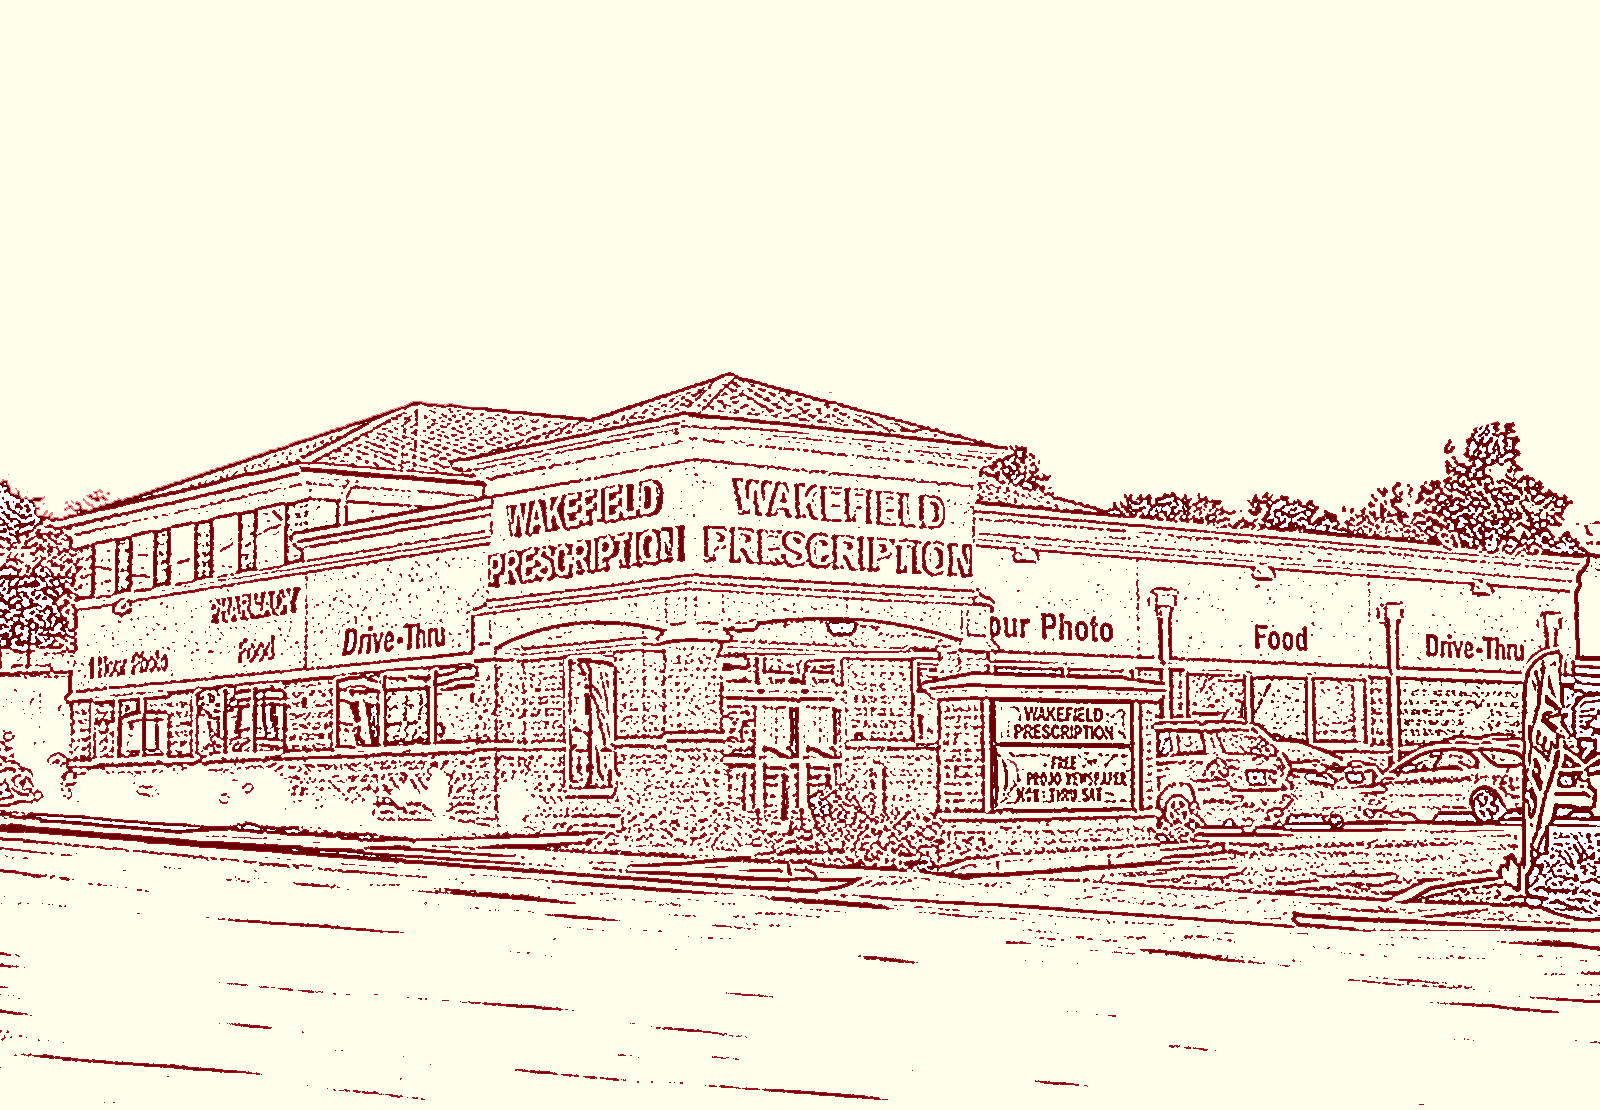
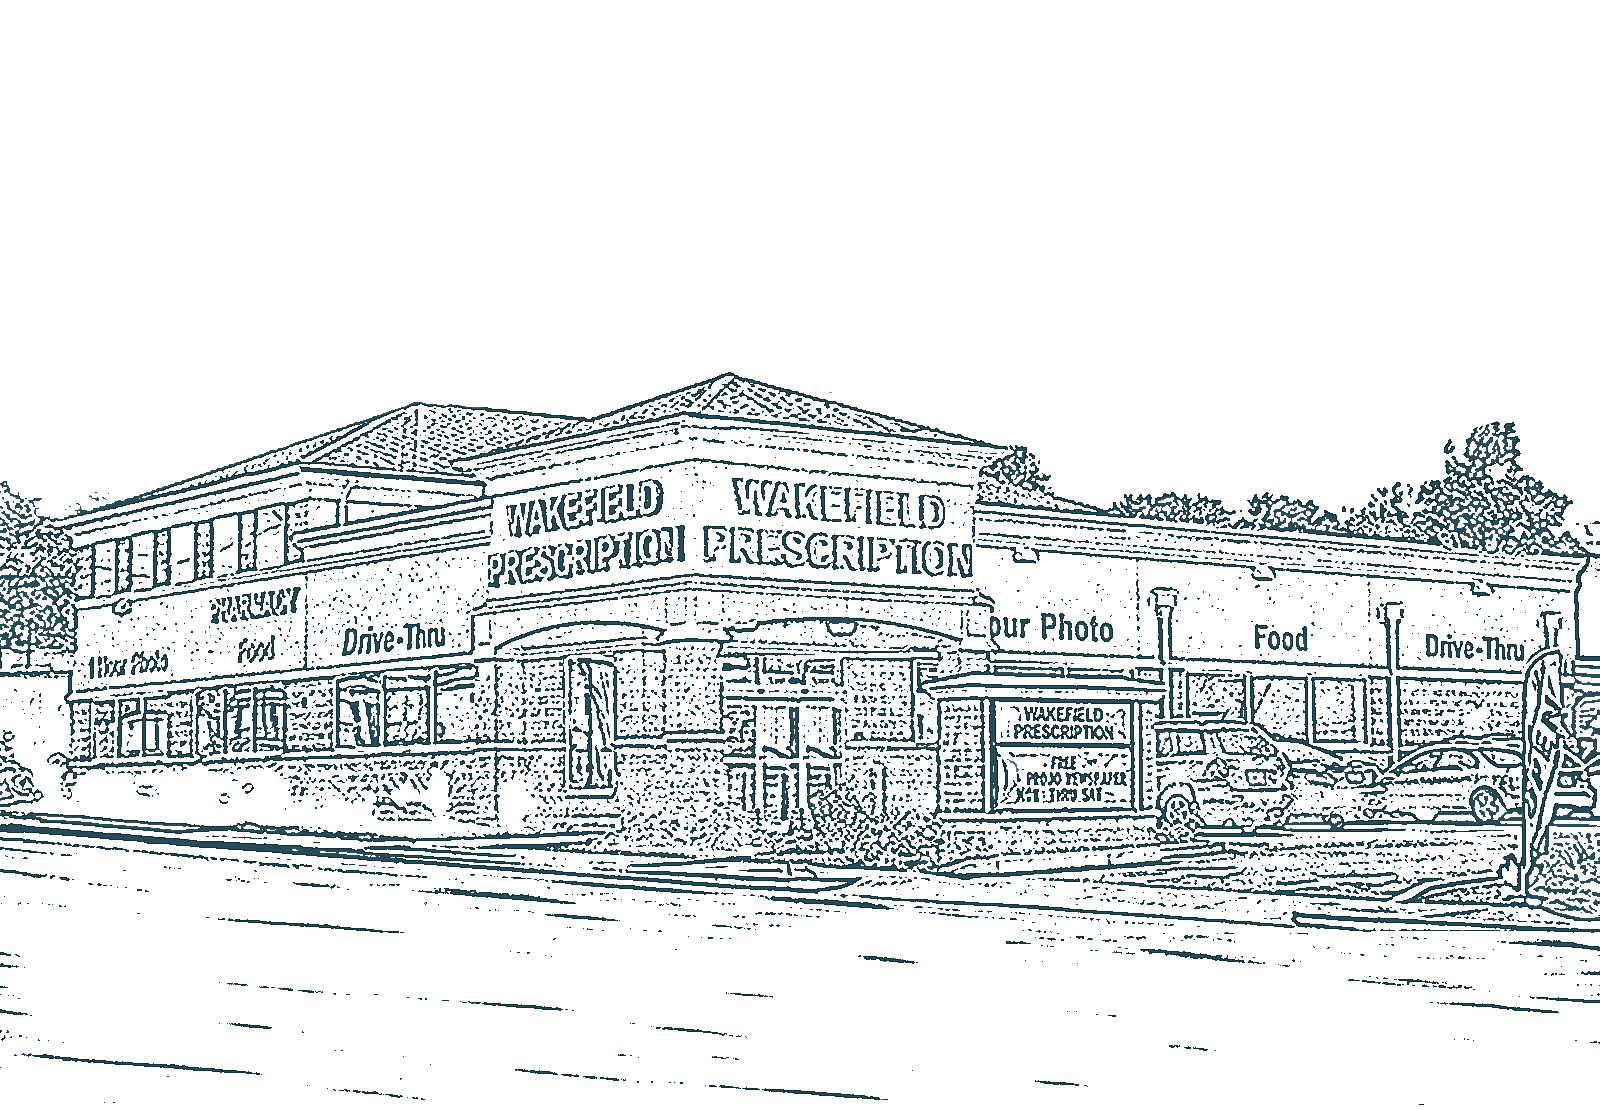
colored background

diff --git a/WakefieldRx/index.html b/WakefieldRx/index.html
@@ -1,6 +1,6 @@
 <!--#include virtual="header.html" -->
 
-  <img alt="full screen background image" src="Pharmacy6.png" id="full-screen-background-image" /> 
+  <img alt="full screen background image" src="Pharmacy7.png" id="full-screen-background-image" /> 
 
 
   <div id="outerbox">	
